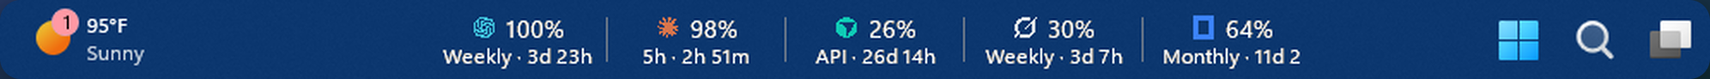
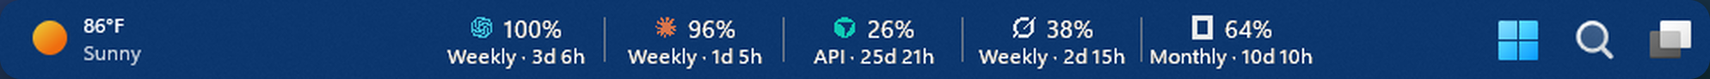
Retake the strip shot and put the heatmap on the site
The hero strip was captured before two fixes that shipped in 1.5.33, so
the live site was advertising both bugs: the OpenCode tile in the old
invented blue, and "Monthly · 10d 1" with its hour cut off. The retake
from the 1.5.33 build shows the white monochrome ring and a whole
"Monthly · 10d 10h". Same dimensions, so no layout change.

The activity heatmap is the headline addition of this release and the
site said nothing about it. It gets a block in the charts section, since
"when do I actually work" is the one question none of the provider
dashboards answer and the data was already sitting on disk.

diff --git a/site/index.html b/site/index.html
@@ -608,6 +608,28 @@
 
           <div class="split-feature">
             <div class="feature-copy">
+              <p class="feature-label">When you work</p>
+              <h3>Find the hours you actually build in.</h3>
+              <p>Ceiling already has the timestamps, so it can answer a question no provider dashboard will: not how much you used, but when. A 30-day strip and a weekday-by-hour grid, drawn from logs already on your disk.</p>
+              <ul class="feature-points">
+                <li>See your real working week, including the parts you would not have guessed.</li>
+                <li>Read it in tokens or in estimated API value, per provider or across all of them.</li>
+                <li>Nothing new is collected and nothing leaves the machine.</li>
+              </ul>
+            </div>
+            <div class="shot">
+              <img
+                src="/ceiling-charts-heatmap.png"
+                width="1040"
+                height="898"
+                loading="lazy"
+                alt="Ceiling's Charts tab showing estimated API value for the day beside an activity heatmap of the last 30 days by day and by hour"
+              />
+            </div>
+          </div>
+
+          <div class="split-feature">
+            <div class="feature-copy">
               <p class="feature-label">Always nearby</p>
               <h3>Useful when you are working, quiet when you are not.</h3>
               <p>The capacity strip sits above the taskbar without stealing focus. Hover for a fuller view, open the tray flyout when you need detail, and stay out of a dashboard the rest of the time.</p>
